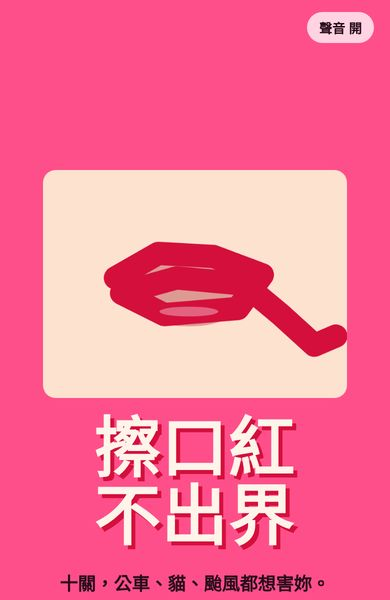
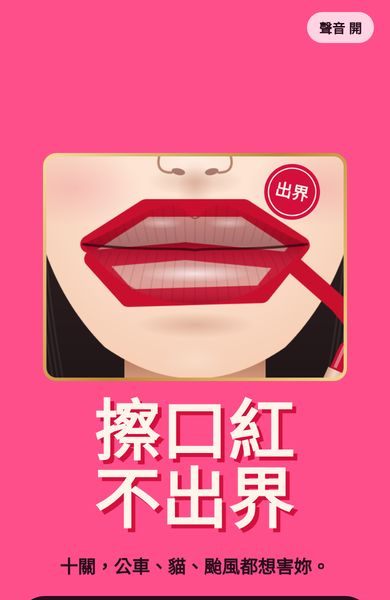
上架擦口紅不出界：首頁、縮圖、sitemap
Claude-Session: https://claude.ai/code/session_01QPvcMTBPpy8CQwfzsovrbR

diff --git a/index.html b/index.html
@@ -72,7 +72,7 @@ button:focus-visible,a:focus-visible{outline:2px solid var(--ink);outline-offset
 <div class="end">已經滑到底了<br>每個遊戲都是一則貼文，新作會出現在最上面。<br>本站沒有追蹤 cookie；按讚只存在你自己的手機。</div>
 <div class="toast" id="toast"></div>
 <script>
-const G=[{"slug": "makeup-queen", "title": "彩妝女王", "desc": "帶 3,000 塊去寶雅，買什麼就只能畫什麼。27 種結局，這妝能出門嗎？", "cat": "好笑", "date": "2026-11-03T17:31:27+08:00"}, {"slug": "supercar", "title": "超跑情人夢", "desc": "同樣 200 萬，自己配一台車跑九彎十八拐。你配得贏嗎？", "cat": "好笑", "date": "2026-11-03T12:25:00+08:00"}, {"slug": "adoption-day", "title": "領養日", "desc": "當一天狗或貓去認養會，50 組飼主、80 種結局，看你被誰帶回家。", "cat": "好笑", "date": "2026-11-02T16:01:30+08:00"}, {"slug": "taiwan-gm", "title": "台灣總教頭", "desc": "220 點挑 20 人組最強戰隊，再建一個自己的黨。", "cat": "好笑", "date": "2026-11-01T15:12:14+08:00"}, {"slug": "chef", "title": "拿出你的手路菜", "desc": "冰箱 230 種食材，份量、火候自己來，煮出只屬於你的一道菜。", "cat": "療癒", "date": "2026-10-29T22:10:29+08:00"}, {"slug": "us-stock", "title": "美股怎麼買最省", "desc": "第一次買美股？選你的券商，告訴你最省的開始方式。", "cat": "實用", "date": "2026-10-29T19:17:02+08:00"}, {"slug": "run-taichung", "title": "北中高跑點地圖", "desc": "台北、台中、高雄 30 個跑點，距離、爬升、地形示意圖一次看。", "cat": "實用", "date": "2026-10-29T19:17:01+08:00"}, {"slug": "michelin", "title": "台中米其林寶典", "desc": "七年米其林名單，分區看價錢，一鍵導航", "cat": "實用", "date": "2026-10-29T01:57:00+08:00"}, {"slug": "pet", "title": "毛孩心聲所", "desc": "影片還沒傳完，溝通師就講完了", "cat": "好笑", "date": "2026-10-28T17:02:00+08:00"}, {"slug": "shopping", "title": "雙11週年慶地圖", "desc": "2026 全台百貨週年慶日期一次看", "cat": "實用", "date": "2026-10-28T05:49:00+08:00"}, {"slug": "chihuahua", "title": "吉娃娃配種所", "desc": "生一隻專屬你的吉娃娃頭貼", "cat": "療癒", "date": "2026-10-28T03:06:00+08:00"}, {"slug": "elevator", "title": "電梯超載", "desc": "把各國乘客塞進電梯，不能超重", "cat": "好笑", "date": "2026-10-28T02:28:00+08:00"}, {"slug": "roll", "title": "慢慢捲", "desc": "手捲一根菸，考驗你的耐心", "cat": "好笑", "date": "2026-10-27T20:36:00+08:00"}, {"slug": "salary", "title": "薪水撐到月底", "desc": "選你的月薪，看撐不撐得到月底", "cat": "好笑", "date": "2026-10-26T23:30:00+08:00"}, {"slug": "trip-draw", "title": "下一站抽籤", "desc": "抽你的下一個旅行城市", "cat": "療癒", "date": "2026-10-26T22:19:00+08:00"}, {"slug": "smokebug", "title": "菸蟲退散", "desc": "跟心裡的菸蟲對打", "cat": "好笑", "date": "2026-10-25T16:56:00+08:00"}];
+const G=[{"slug": "lipstick", "title": "擦口紅不出界", "desc": "十關，公車、貓、颱風都想害妳。妳能塗幾 %？", "cat": "好笑", "date": "2026-11-04T02:47:26+08:00"}, {"slug": "makeup-queen", "title": "彩妝女王", "desc": "帶 3,000 塊去寶雅，買什麼就只能畫什麼。27 種結局，這妝能出門嗎？", "cat": "好笑", "date": "2026-11-03T17:31:27+08:00"}, {"slug": "supercar", "title": "超跑情人夢", "desc": "同樣 200 萬，自己配一台車跑九彎十八拐。你配得贏嗎？", "cat": "好笑", "date": "2026-11-03T12:25:00+08:00"}, {"slug": "adoption-day", "title": "領養日", "desc": "當一天狗或貓去認養會，50 組飼主、80 種結局，看你被誰帶回家。", "cat": "好笑", "date": "2026-11-02T16:01:30+08:00"}, {"slug": "taiwan-gm", "title": "台灣總教頭", "desc": "220 點挑 20 人組最強戰隊，再建一個自己的黨。", "cat": "好笑", "date": "2026-11-01T15:12:14+08:00"}, {"slug": "chef", "title": "拿出你的手路菜", "desc": "冰箱 230 種食材，份量、火候自己來，煮出只屬於你的一道菜。", "cat": "療癒", "date": "2026-10-29T22:10:29+08:00"}, {"slug": "us-stock", "title": "美股怎麼買最省", "desc": "第一次買美股？選你的券商，告訴你最省的開始方式。", "cat": "實用", "date": "2026-10-29T19:17:02+08:00"}, {"slug": "run-taichung", "title": "北中高跑點地圖", "desc": "台北、台中、高雄 30 個跑點，距離、爬升、地形示意圖一次看。", "cat": "實用", "date": "2026-10-29T19:17:01+08:00"}, {"slug": "michelin", "title": "台中米其林寶典", "desc": "七年米其林名單，分區看價錢，一鍵導航", "cat": "實用", "date": "2026-10-29T01:57:00+08:00"}, {"slug": "pet", "title": "毛孩心聲所", "desc": "影片還沒傳完，溝通師就講完了", "cat": "好笑", "date": "2026-10-28T17:02:00+08:00"}, {"slug": "shopping", "title": "雙11週年慶地圖", "desc": "2026 全台百貨週年慶日期一次看", "cat": "實用", "date": "2026-10-28T05:49:00+08:00"}, {"slug": "chihuahua", "title": "吉娃娃配種所", "desc": "生一隻專屬你的吉娃娃頭貼", "cat": "療癒", "date": "2026-10-28T03:06:00+08:00"}, {"slug": "elevator", "title": "電梯超載", "desc": "把各國乘客塞進電梯，不能超重", "cat": "好笑", "date": "2026-10-28T02:28:00+08:00"}, {"slug": "roll", "title": "慢慢捲", "desc": "手捲一根菸，考驗你的耐心", "cat": "好笑", "date": "2026-10-27T20:36:00+08:00"}, {"slug": "salary", "title": "薪水撐到月底", "desc": "選你的月薪，看撐不撐得到月底", "cat": "好笑", "date": "2026-10-26T23:30:00+08:00"}, {"slug": "trip-draw", "title": "下一站抽籤", "desc": "抽你的下一個旅行城市", "cat": "療癒", "date": "2026-10-26T22:19:00+08:00"}, {"slug": "smokebug", "title": "菸蟲退散", "desc": "跟心裡的菸蟲對打", "cat": "好笑", "date": "2026-10-25T16:56:00+08:00"}];
 const ICO={heart:'<svg viewBox="0 0 24 24"><path d="M12 20s-7-4.4-9.2-8.6C1.2 8.3 3.1 4.8 6.6 4.6c2.1-.1 3.6 1.1 5.4 3 1.8-1.9 3.3-3.1 5.4-3 3.5.2 5.4 3.7 3.8 6.8C19 15.6 12 20 12 20z"/></svg>',
  chat:'<svg viewBox="0 0 24 24"><path d="M20.5 12a8.5 8.5 0 0 1-12.6 7.4L3.5 20.5l1.1-4.3A8.5 8.5 0 1 1 20.5 12z"/></svg>',
  repost:'<svg viewBox="0 0 24 24"><path d="M17 3l3 3-3 3M20 6H8a4 4 0 0 0-4 4v1M7 21l-3-3 3-3M4 18h12a4 4 0 0 0 4-4v-1"/></svg>',
